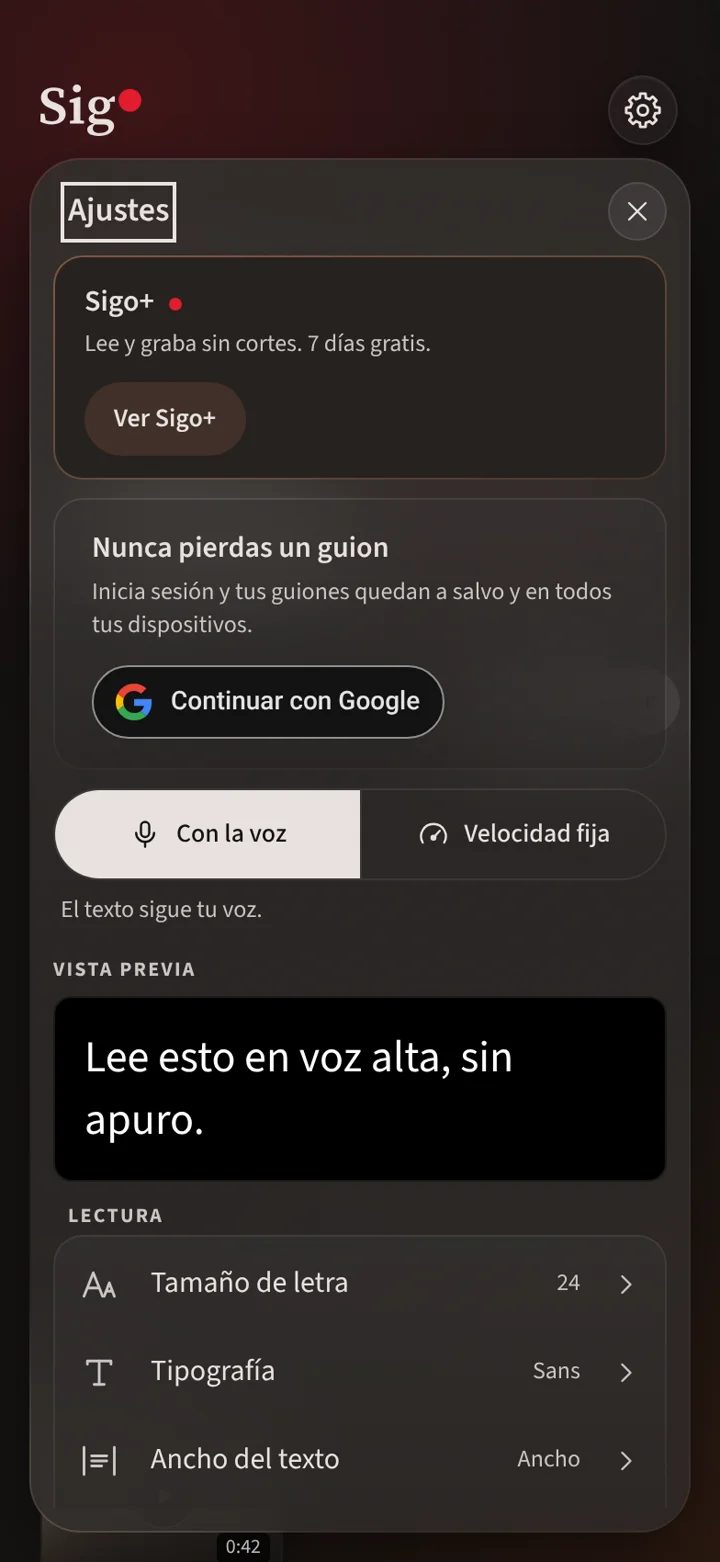
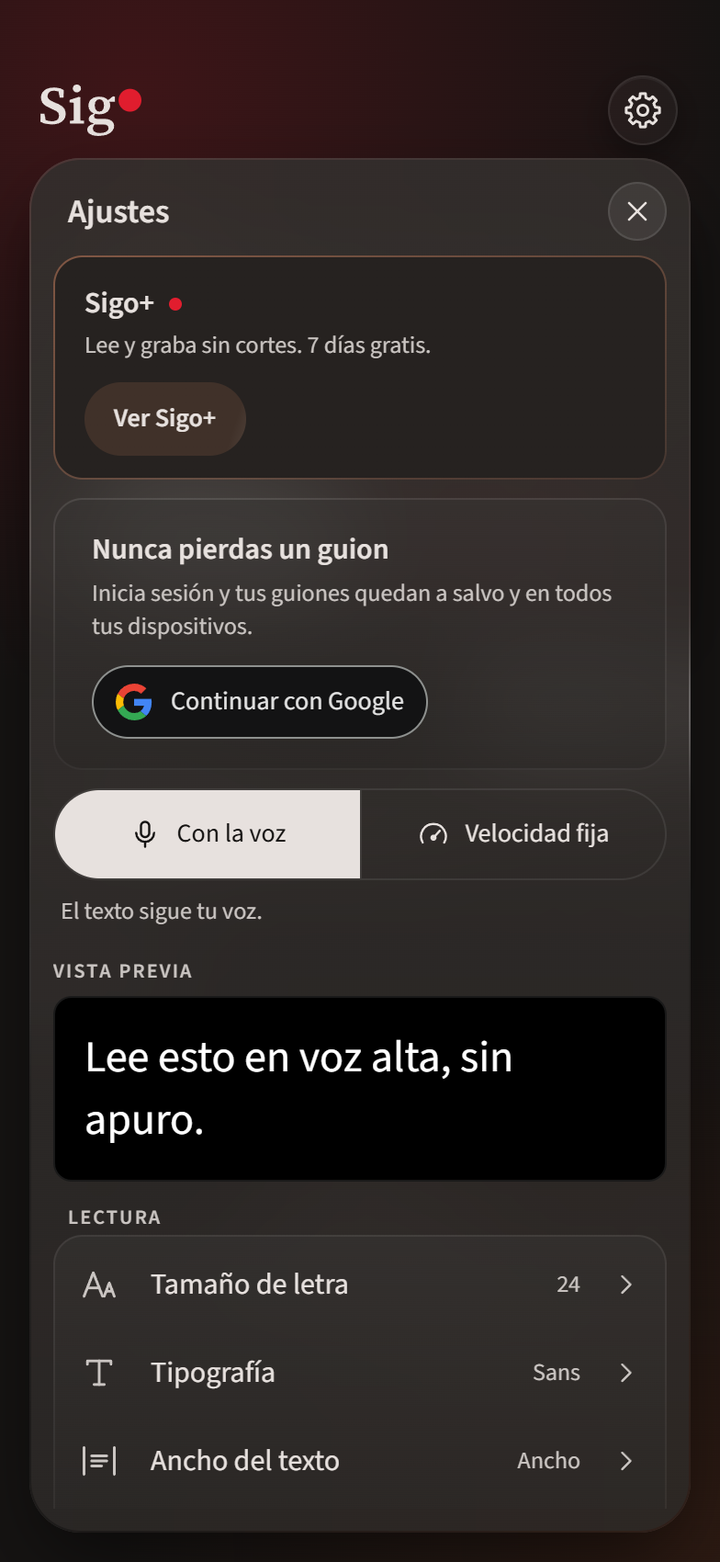
Corrige capturas, textos alternativos y comentarios del sitio

diff --git a/sitio/fuente/escenas.js b/sitio/fuente/escenas.js
@@ -29,13 +29,16 @@ const ESCENAS = [
   [5, 3.4, 5.1, 4.2]
 ]
 const TOTAL = 5.1
+// Donde deja el scroll cada capitulo de la pildora.
 const CAPITULOS = { 1: 1.15, 2: 2.7, 5: 4.2 }
 // E3/E4/E6 fuera del recorrido: umbrales > TOTAL para que no disparen clases.
+// Antes: Los formatos se pintan en E3, uno tras otro, y quedan.
 const PINTA = [['negrita', 99], ['ambar', 99], ['celeste', 99], ['salvia', 99], ['destacado', 99]]
 const GRABA = [99, 99.5]
 const LENTE = [99, 99.5]
 const VIDEO = [3.45, 5.1]
 const ESTILOS = [['amarillo', 3.4], ['rojo', 4.15], ['formal', 4.7]]
+// Antes: Sin internet: las cuatro barras se apagan de a una, despues el wifi, despues el avion.
 const SIN_INTERNET = 99
 const SENAL = [99, 99.1, 99.2, 99.3]
 const SIN_WIFI = 99.4
@@ -305,6 +308,10 @@ export function iniciarEscenas(datos) {
     tl.to(pildora, { y: 72, autoAlpha: 0.25, duration: 0.35, ease: 'power2.out' }, 2.05)
     tl.to(pildora, { y: 0, autoAlpha: 1, duration: 0.3, ease: 'power2.out' }, 3.3)
 
+    // Antes: E2 -> E3: se va el comun; los colores del guion encienden la luz
+    // Antes: E3 -> E4: gira hasta mostrar el lente, el haz, y despues grabando
+    // Antes: E4 -> E5: el telefono pierde el marco y se vuelve el video, grande
+    // Antes: E5 -> E6: vuelve el marco; se va la senal
     // E2 -> E5 (prototipo): salta formatos/lente/offline; va directo a subtítulos
     sale(textos[2], 3.35)
     tl.to(canvas, { autoAlpha: 0, duration: 0.12 }, 3.35)
@@ -412,6 +419,7 @@ export function iniciarEscenas(datos) {
     }
     if (p > 1.55 && p < 3.45) estadoPrevio.fueraE2 = false
 
+    // La onda
     // La onda (motor real). E1: se acerca al teléfono. E2: una bajo cada
     // teléfono, misma t de voz — en la pausa ambas se aplanan; el común
     // sigue escapando, Sigo espera. Reduced-motion: reloj congelado →
@@ -427,6 +435,8 @@ export function iniciarEscenas(datos) {
           color: '#E7E1DE', colorAhora: '#F0C070', barW: 4, marca: false
         })
       } else {
+        // E2: una onda bajo cada telefono, con su "ahora" al centro. Es la misma voz: cuando se
+        // aplana, se aplana bajo los dos a la vez.
         const { y, medio, alto: altoE2 } = L.ondaE2
         const alto = altoE2 || (L.movil ? 34 : 48)
         // Misma condición que ponerPausa: en silencio la onda es cápsula continua.
@@ -509,6 +519,7 @@ export function iniciarEscenas(datos) {
     avion: { x: 235, y: -250, lado: 'izq' }
   }
 
+  // Antes: En el celular los avisos de E2 ya van dentro de cada pantalla: sin tarjetas encima.
   function tarjetasVisibles(p, esc, t) {
     const v = new Set()
     const enPausa = t >= pausa[0] + 250 && t < pausa[1] + 200

diff --git a/sitio/fuente/onda.js b/sitio/fuente/onda.js
@@ -1,4 +1,11 @@
 // Portada aprobada: recorrido corto E0 → E1 → E2 → E5; ver NOTA-DEMO-REAL del PR #165.
+// LA ONDA DE LA VOZ -escenas E1 y E2-. 27-09-2026, docs/el-sitio.md v2.
+//
+// Barras verticales que viajan hacia el telefono: cada barra es un instante de la voz, con los
+// mismos tiempos que la lectura -datos.voz, cuando empieza y termina cada palabra-. La barra
+// que toca el borde del telefono es lo que suena ahora, y esa palabra se enciende en la
+// pantalla. En los silencios la onda se aplana. La forma de cada palabra -sus silabas, lo alto
+// de cada barra- es dibujo: los tiempos no.
 // LA ONDA DE LA VOZ -escenas E1 y E2-. Motor real; dibujo Apple/Sony (t122u/t123u).
 // Silencio = franja continua baja (no fila de puntos). Voz = barras con el mismo paso.
 
@@ -24,8 +31,10 @@ export class Onda {
     this.ctx.setTransform(dpr, 0, 0, dpr, 0, 0)
   }
 
+  // Que tan fuerte suena en el milisegundo t, de 0 a 1.
   fuerza(t) {
     const v = this.voz
+    // Busqueda lineal desde la ultima: las barras se piden en orden.
     let i = this.ultima || 0
     if (i >= v.length || (i > 0 && v[i - 1][1] > t)) i = 0
     while (i < v.length && v[i][1] <= t) i++
@@ -40,6 +49,10 @@ export class Onda {
     return Math.max(SILENCIO, (0.28 + 0.72 * silaba) * grano * borde)
   }
 
+  // x: el x en pantalla donde suena ahora; lo que viene llega desde la izquierda.
+  // pasado: cuanto se dibuja a la derecha de "ahora" -lo que ya sono-, en px.
+  // tramo: [desde, hasta] en x, para dibujar varias ondas -una bajo cada telefono, E2- sin
+  // que se pisen; limpiar en false para no borrar la anterior. marca: una raya en "ahora".
   dibujar(t, {
     x: xAhora, y, alto, izquierda = xAhora, pasado = 0, alfa = 1,
     tramo = null, limpiar = true, marca = false,
@@ -63,6 +76,7 @@ export class Onda {
     // ¿Todo el tramo visible está en silencio? → una cápsula continua (Apple idle).
     let maxF = 0
     const muestras = []
+    // Del pasado al futuro, para que la busqueda de la fuerza vaya en orden.
     for (let k = -nPasado; k <= n; k++) {
       const tk = (Math.floor(t / MS_POR_BARRA) + k) * MS_POR_BARRA
       const x = xAhora - k * PX_POR_BARRA + desplazamiento
@@ -103,6 +117,7 @@ export class Onda {
         // Voz: barras más finas, mismo paso.
         const bw = silent ? PX_POR_BARRA + 0.2 : barW
         const h = silent ? Math.max(3.5, alto * 0.15) : Math.max(4, f * alto)
+        // Antes: Lejos, tenue; cerca del telefono, crema; lo ya dicho, se apaga.
         const lejos = k >= 0 ? Math.min(1, k / Math.max(1, n)) : 0
         const opacidad = silent
           ? 0.78

diff --git a/sitio/public/index.html b/sitio/public/index.html
@@ -2021,9 +2021,9 @@ LA INVITACION: despues del cierre -"Pronto en Google Play."- y antes del pie. No
       <div class="galeria-pista" data-galeria-pista>
         <figure class="g-slide revela"><img src="/activos/es/phone-01.webp" alt="Sigo preparado para leer un guion con seguimiento de voz" width="720" height="1280" loading="lazy" decoding="async"></figure>
         <figure class="g-slide revela"><img src="/activos/es/phone-02.webp" alt="Guion con la vista de cámara en un recuadro" width="720" height="1280" loading="lazy" decoding="async"></figure>
-        <figure class="g-slide revela"><img src="/activos/es/phone-03.webp" alt="Video subtitulado y selector de estilo" width="720" height="1280" loading="lazy" decoding="async"></figure>
-        <figure class="g-slide revela"><img src="/activos/es/phone-04.webp" alt="Control por gestos: palma y V" width="720" height="1280" loading="lazy" decoding="async"></figure>
-        <figure class="g-slide revela"><img src="/activos/es/phone-05.webp" alt="Vista previa con filtros" width="720" height="1280" loading="lazy" decoding="async"></figure>
+        <figure class="g-slide revela"><img src="/activos/es/phone-03.webp" alt="Video con subtítulos y selector de estilo" width="720" height="1280" loading="lazy" decoding="async"></figure>
+        <figure class="g-slide revela"><img src="/activos/es/phone-04.webp" alt="Editor de guion con los botones Leer y Grabar" width="720" height="1280" loading="lazy" decoding="async"></figure>
+        <figure class="g-slide revela"><img src="/activos/es/phone-05.webp" alt="Ajustes con el modo Con la voz y la vista previa" width="720" height="1280" loading="lazy" decoding="async"></figure>
         <figure class="g-slide revela"><img src="/activos/es/phone-06.webp" alt="Ajustes de lectura a velocidad fija" width="720" height="1280" loading="lazy" decoding="async"></figure>
       </div>
       <div class="galeria-hint" aria-hidden="false">

diff --git a/sitio/public/pt.html b/sitio/public/pt.html
@@ -2000,9 +2000,9 @@ LA INVITACION: despues del cierre -"Pronto en Google Play."- y antes del pie. No
       <div class="galeria-pista" data-galeria-pista>
         <figure class="g-slide revela"><img src="/activos/pt/phone-01.webp" alt="Sigo pronto para ler um roteiro com acompanhamento de voz" width="720" height="1280" loading="lazy" decoding="async"></figure>
         <figure class="g-slide revela"><img src="/activos/pt/phone-02.webp" alt="Roteiro com a imagem da câmera em uma janela" width="720" height="1280" loading="lazy" decoding="async"></figure>
-        <figure class="g-slide revela"><img src="/activos/pt/phone-03.webp" alt="Vídeo com legendas e seletor de estilo" width="720" height="1280" loading="lazy" decoding="async"></figure>
-        <figure class="g-slide revela"><img src="/activos/pt/phone-04.webp" alt="Controle por gestos: palma da mão e V" width="720" height="1280" loading="lazy" decoding="async"></figure>
-        <figure class="g-slide revela"><img src="/activos/pt/phone-05.webp" alt="Prévia com filtros" width="720" height="1280" loading="lazy" decoding="async"></figure>
+        <figure class="g-slide revela"><img src="/activos/pt/phone-03.webp" alt="Vídeo com legendas" width="720" height="1280" loading="lazy" decoding="async"></figure>
+        <figure class="g-slide revela"><img src="/activos/pt/phone-04.webp" alt="Editor de roteiro com os botões Ler e Gravar" width="720" height="1280" loading="lazy" decoding="async"></figure>
+        <figure class="g-slide revela"><img src="/activos/pt/phone-05.webp" alt="Configurações com o modo Com a voz e a prévia" width="720" height="1280" loading="lazy" decoding="async"></figure>
         <figure class="g-slide revela"><img src="/activos/pt/phone-06.webp" alt="Ajustes de leitura com velocidade fixa" width="720" height="1280" loading="lazy" decoding="async"></figure>
       </div>
       <div class="galeria-hint" aria-hidden="false">

diff --git a/sitio/public/en.html b/sitio/public/en.html
@@ -2000,9 +2000,9 @@ LA INVITACION: despues del cierre -"Pronto en Google Play."- y antes del pie. No
       <div class="galeria-pista" data-galeria-pista>
         <figure class="g-slide revela"><img src="/activos/en/phone-01.webp" alt="Sigo ready to read a script with voice following" width="720" height="1280" loading="lazy" decoding="async"></figure>
         <figure class="g-slide revela"><img src="/activos/en/phone-02.webp" alt="Script with the camera view in a movable window" width="720" height="1280" loading="lazy" decoding="async"></figure>
-        <figure class="g-slide revela"><img src="/activos/en/phone-03.webp" alt="Captioned video and style selector" width="720" height="1280" loading="lazy" decoding="async"></figure>
-        <figure class="g-slide revela"><img src="/activos/en/phone-04.webp" alt="Gesture control: palm and V sign" width="720" height="1280" loading="lazy" decoding="async"></figure>
-        <figure class="g-slide revela"><img src="/activos/en/phone-05.webp" alt="Preview with filters" width="720" height="1280" loading="lazy" decoding="async"></figure>
+        <figure class="g-slide revela"><img src="/activos/en/phone-03.webp" alt="Video with captions" width="720" height="1280" loading="lazy" decoding="async"></figure>
+        <figure class="g-slide revela"><img src="/activos/en/phone-04.webp" alt="Script editor with the Read and Record buttons" width="720" height="1280" loading="lazy" decoding="async"></figure>
+        <figure class="g-slide revela"><img src="/activos/en/phone-05.webp" alt="Settings showing voice mode and the preview" width="720" height="1280" loading="lazy" decoding="async"></figure>
         <figure class="g-slide revela"><img src="/activos/en/phone-06.webp" alt="Fixed-speed reading settings" width="720" height="1280" loading="lazy" decoding="async"></figure>
       </div>
       <div class="galeria-hint" aria-hidden="false">

diff --git a/sitio/fuente/textos/es.js b/sitio/fuente/textos/es.js
@@ -45,9 +45,9 @@ export default {
     "galeriaCaptura": "Captura {n} de {total}",
     "galeriaAlt1": "Sigo preparado para leer un guion con seguimiento de voz",
     "galeriaAlt2": "Guion con la vista de cámara en un recuadro",
-    "galeriaAlt3": "Video subtitulado y selector de estilo",
-    "galeriaAlt4": "Control por gestos: palma y V",
-    "galeriaAlt5": "Vista previa con filtros",
+    "galeriaAlt3": "Video con subtítulos y selector de estilo",
+    "galeriaAlt4": "Editor de guion con los botones Leer y Grabar",
+    "galeriaAlt5": "Ajustes con el modo Con la voz y la vista previa",
     "galeriaAlt6": "Ajustes de lectura a velocidad fija",
     "horizontalAlt": "Grabación en horizontal con el guion sobre la cámara",
     "horizontalTexto": "Graba de pie o de lado.",

diff --git a/sitio/fuente/textos/pt.js b/sitio/fuente/textos/pt.js
@@ -55,9 +55,9 @@ export default {
     "galeriaCaptura": "Captura {n} de {total}",
     "galeriaAlt1": "Sigo pronto para ler um roteiro com acompanhamento de voz",
     "galeriaAlt2": "Roteiro com a imagem da câmera em uma janela",
-    "galeriaAlt3": "Vídeo com legendas e seletor de estilo",
-    "galeriaAlt4": "Controle por gestos: palma da mão e V",
-    "galeriaAlt5": "Prévia com filtros",
+    "galeriaAlt3": "Vídeo com legendas",
+    "galeriaAlt4": "Editor de roteiro com os botões Ler e Gravar",
+    "galeriaAlt5": "Configurações com o modo Com a voz e a prévia",
     "galeriaAlt6": "Ajustes de leitura com velocidade fixa",
     "horizontalAlt": "Gravação na horizontal com o roteiro sobre a câmera",
     "horizontalTexto": "Grave na vertical ou na horizontal.",

diff --git a/sitio/fuente/textos/en.js b/sitio/fuente/textos/en.js
@@ -43,9 +43,9 @@ export default {
     "galeriaCaptura": "Screenshot {n} of {total}",
     "galeriaAlt1": "Sigo ready to read a script with voice following",
     "galeriaAlt2": "Script with the camera view in a movable window",
-    "galeriaAlt3": "Captioned video and style selector",
-    "galeriaAlt4": "Gesture control: palm and V sign",
-    "galeriaAlt5": "Preview with filters",
+    "galeriaAlt3": "Video with captions",
+    "galeriaAlt4": "Script editor with the Read and Record buttons",
+    "galeriaAlt5": "Settings showing voice mode and the preview",
     "galeriaAlt6": "Fixed-speed reading settings",
     "horizontalAlt": "Landscape recording with the script over the camera",
     "horizontalTexto": "Record in portrait or landscape.",

diff --git a/sitio/fuente/activos/PROCEDENCIA.md b/sitio/fuente/activos/PROCEDENCIA.md
@@ -3,18 +3,31 @@
 ## Español
 
 Copias exactas de `875acb1`, `docs/pantallas/sitio-nuevo/activos/capturas-webp/crops/`,
-con el póster del mismo prototipo. No se regeneran las imágenes ya aprobadas.
-La galería phone-03 es una composición anterior; phone-05 conserva un foco antiguo.
+con el póster del mismo prototipo, excepto las tres capturas españolas autorizadas en la
+corrección del PR #168: `phone-05`, `phone-06` y `uso-ensayos`. Estas se repitieron con
+el perfil aislado y limpio de Guiones, sin grabaciones de ejemplo, con el mismo contenido
+de Ajustes y las mismas dimensiones anteriores. El foco se retira antes de fotografiar.
+La galería phone-03 conserva la composición anterior aprobada.
+
+Antes: phone-05 conservaba el marco de foco, el 0:42 y una sombra de la biblioteca;
+phone-06 y uso-ensayos traían la misma sombra. Esos rastros se eliminaron al recapturar.
+Las cámaras españolas `uso-videos`, `phone-02` y `phone-08` permanecen idénticas.
 
 ## Inglés y portugués de Brasil
 
 - `guiones-ui`, `uso-clases`, `uso-presentaciones`, `uso-ensayos`, `phone-01`, `phone-04`,
   `phone-05`: interfaz React de la app en cada idioma, capturada con
   `sitio/herramientas/capturar-app-real.cjs`. Texto ampliado a la vista no se retoca.
-- `uso-videos`, `phone-02`, `phone-08`: misma interfaz React en Grabar LISTO; cámara con
-  la señal estándar de prueba de Chrome, sin reutilizar una captura española como cámara.
-  Se limita el adaptador web de CameraPreview al recuadro real: no se cambian controles.
-  Son provisionales por calidad visual, no tomas Android ni videos de personas.
+- `uso-videos` y `phone-02`: interfaz React en Grabar LISTO, en el idioma correspondiente,
+  con `docs/play/ficha/herramientas/fuente/persona-A.png` en el recuadro.
+- `phone-08`: la misma interfaz en horizontal, con `persona-C.png`.
+  Ambas personas son imágenes generadas, autorizadas para uso comercial según
+  `docs/play/ficha/herramientas/fuente/LICENCIA-personas.txt`. No son capturas españolas.
+  La herramienta muestra la imagen solo dentro del hueco real de cámara, con
+  `object-fit: cover` y la cara visible; comprueba que no cambien botones ni etiquetas.
+  Se conserva el límite del adaptador CameraPreview para evitar desbordes del viewport.
+  Antes: se mostraba la señal de prueba de Chrome. Ya no quedan imágenes provisionales.
+  Estas siguen siendo capturas React, no tomas Android ni prueba de cámara nativa.
 - `phone-06`: copia del Ajuste de velocidad fija capturado (`uso-ensayos`).
 - `phone-03`: recortes de `docs/play/ficha/capturas/{en-US,pt-BR}/03.png`,
   caja `(192,514,888,1752)`, exportada a 720 × 1280 en WebP. El origen es la ficha de
@@ -32,3 +45,9 @@ verificación del foco quedan en la carpeta externa de revisión.
 El único MP4 viene de `docs/play/ficha/video/sigo-version-google-play-es.mp4` al armar.
 No se duplica aquí ni se asigna a EN/PT. Las licencias de su música permanecen junto a la
 fuente en docs/play/ficha/video/.
+
+
+## Notas internas
+
+Este archivo y `google-play/ORIGEN.md` permanecen solo en la fuente. El filtro del armado
+excluye todos los `.md` de `public/activos/`; los medios y SVG sí se copian.

diff --git a/docs/el-sitio.md b/docs/el-sitio.md
@@ -26,7 +26,7 @@ continúa abierto como referencia. Se arma desde la raíz con `node sitio/armar.
   tres idiomas. La nueva hoja y el pie también se aplican a esas páginas.
 - `sitio/fuente/activos/{es,en,pt}/`: imágenes por idioma, con rutas absolutas
   `/activos/...`. El armado copia esta carpeta a `public/activos/` y la conserva al limpiar.
-  `activos/PROCEDENCIA.md` distingue captura React, material de ficha y límites pendientes.
+  `activos/PROCEDENCIA.md` distingue captura React, personas generadas y material de ficha; no se publica.
 
 ### Video por idioma
 
@@ -63,13 +63,28 @@ Se revisan ambas posiciones del interruptor y se deja **false**, con `public/` r
 Las pruebas de la aplicación siguen siendo de lógica, sin fijar posiciones ni tamaños.
 La captura del navegador no certifica comportamiento nativo en Android.
 
-**Pendiente visual:** Videos / phone-02 y la horizontal phone-08 de EN/PT muestran
-la cámara de prueba de Chrome. La interfaz y el guion sí están en su idioma, pero estas
-imágenes no tienen la calidad de una toma con persona. La galería phone-03 española es
-una composición anterior conservada por aprobación; los recortes EN/PT salen de sus
-fichas respectivas y no reconstruyen el selector flotante de esa composición.
-El español conserva también el foco antiguo de phone-05; Guiones sí usa la captura limpia.
-Estas limitaciones deben revisarse antes de publicar; no se sustituyen por imágenes españolas.
+### Corrección del PR #168
+
+No quedan imágenes provisionales. Las cámaras de EN/PT muestran las personas generadas
+`persona-A.png` (uso-videos y phone-02) y `persona-C.png` (horizontal phone-08), con
+licencia comercial en `docs/play/ficha/herramientas/fuente/LICENCIA-personas.txt`.
+La imagen solo ocupa el recuadro de cámara con `object-fit: cover`; no se cambian controles.
+Las cámaras españolas permanecen intactas.
+
+`phone-05`, `phone-06` y `uso-ensayos` en español se recapturaron, por excepción expresa,
+con el perfil limpio de Guiones, sin foco ni tomas de ejemplo, conservando contenido y
+dimensiones. Antes: phone-05 tenía foco, 0:42 y sombra detrás de la cuenta; las otras dos,
+esa misma sombra. EN/PT usaban antes la señal de prueba de Chrome.
+
+Los alt de phone-03/04/05 describen ahora las imágenes que efectivamente se muestran,
+en los tres idiomas. La composición española de phone-03 y los recortes de las fichas
+EN/PT se conservan; sus alt no prometen controles que no aparezcan.
+
+Se restituyeron los 26 comentarios de origin/main (11 en escenas.js, 15 en onda.js)
+como comentarios propios junto al código, con «Antes:» donde describen el recorrido viejo.
+Las notas internas `PROCEDENCIA.md` y `ORIGEN.md` permanecen en fuente; el armado filtra
+todos los `.md` de los activos públicos. La revisión visual sigue siendo del navegador,
+sin certificar cámara ni reconocimiento nativos de Android.
 
 ## Antes: versión 2 del sitio y criterio de su recorrido largo
 

diff --git a/sitio/herramientas/LEEME.md b/sitio/herramientas/LEEME.md
@@ -9,10 +9,15 @@ usan su misma dependencia `puppeteer-core`; no se cambia el package.json de la a
    con caché en esta carpeta; no cambia src/.
 3. En otra terminal, definir `SIGO_CAPTURAS` con una carpeta externa para los PNG y `PYTHON`
    con un intérprete que tenga Pillow. Ejecutar `node sitio/herramientas/capturar-app-real.cjs`.
-   Chrome se puede indicar con `CHROME_PATH`; `CAPTURA_IDIOMA=en|pt` y `CAPTURA_TIPO`
-   permiten una captura puntual. La cámara predeterminada es la señal de prueba de Chrome.
-   `FAKE_VIDEO` solo se usa con un medio independiente autorizado, nunca una captura española
-   para reemplazar una captura en otro idioma. Sin reconocimiento de voz ni grabación nativa.
+   Chrome se puede indicar con `CHROME_PATH`; `CAPTURA_IDIOMA=es|en|pt` y `CAPTURA_TIPO`
+   permiten una captura puntual. En cámara se muestra `persona-A.png` en vertical y
+   `persona-C.png` en horizontal, desde `docs/play/ficha/herramientas/fuente/`, con la licencia
+   comercial documentada en `LICENCIA-personas.txt`. Se usa `object-fit: cover` dentro del
+   recuadro real y se verifica que los controles no cambien. No hay reconocimiento de voz
+   ni grabación nativa. Antes: se admitía FAKE_VIDEO y la señal de prueba de Chrome.
+   `--correccion` limita la ejecución a las cámaras EN/PT y las tres españolas autorizadas:
+   phone-05, phone-06 y uso-ensayos. Estas conservan su medida anterior y usan un perfil
+   limpio sin grabaciones de ejemplo. Nunca regenera las cámaras españolas aprobadas.
 4. Armar con `node sitio/armar.mjs`. Con `SIGO_CAPTURAS` definido, ejecutar
    `node sitio/herramientas/revisar-sitio.cjs`. Sirve public con direcciones limpias, genera
    evidencia fuera del repo y cierra navegador/servidor. Los JSON registran peso, idioma,
@@ -23,4 +28,4 @@ usan su misma dependencia `puppeteer-core`; no se cambia el package.json de la a
 El recorte de phone-03 se repite desde la ficha de cada idioma con la caja
 (192,514,888,1752), tamaño final 720 × 1280. La composición española anterior no tiene
 un selector flotante equivalente en las fuentes EN/PT: no se simula esa interfaz.
-Ver `sitio/fuente/activos/PROCEDENCIA.md` para los pendientes de calidad visual.
+Ver `sitio/fuente/activos/PROCEDENCIA.md` para la procedencia de cada imagen. No quedan imágenes provisionales. Las notas `.md` de activos no se copian al sitio público.
